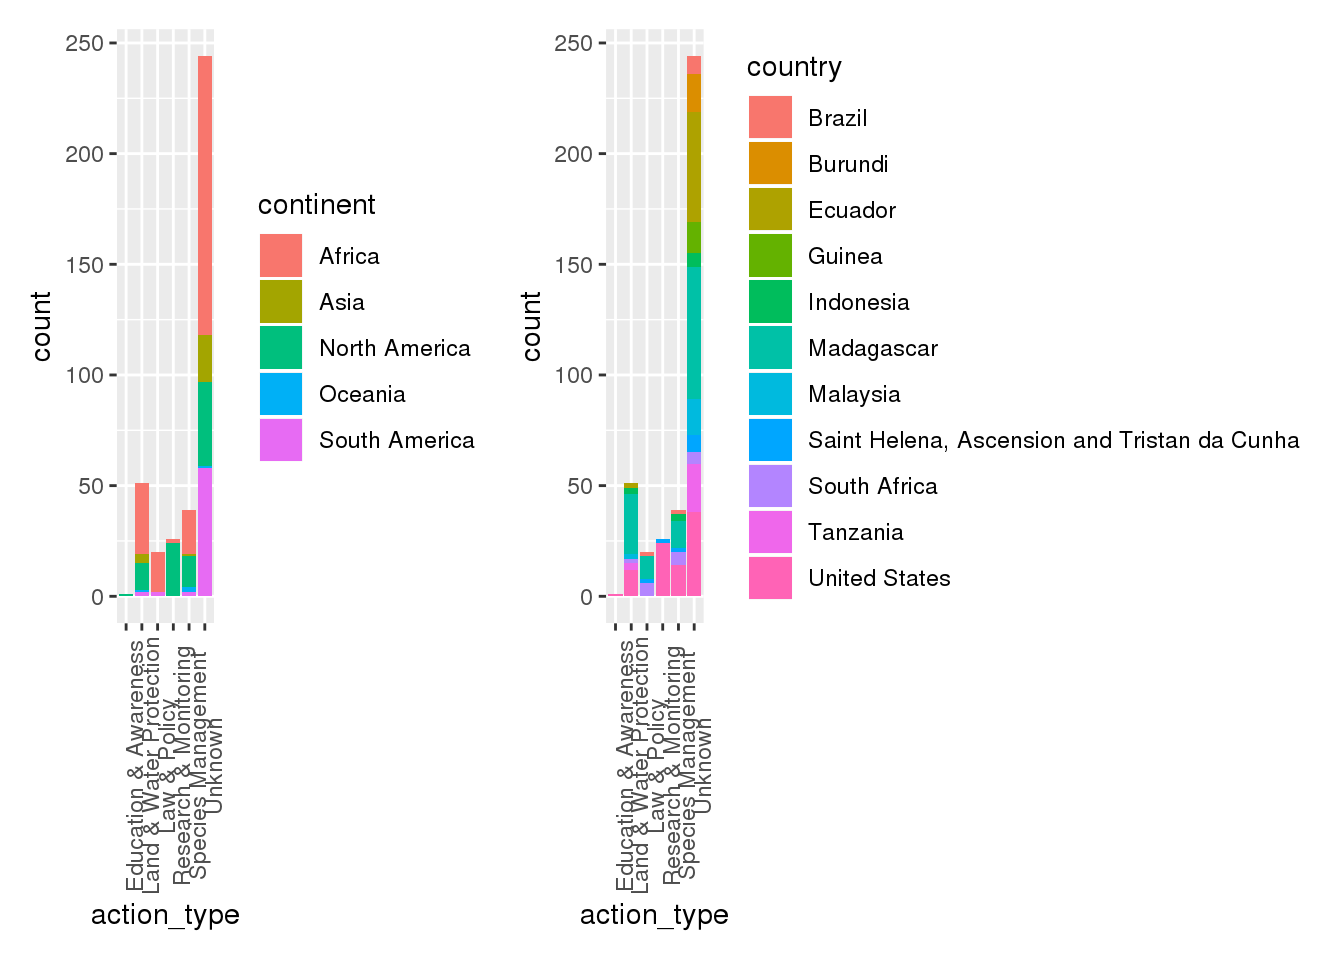
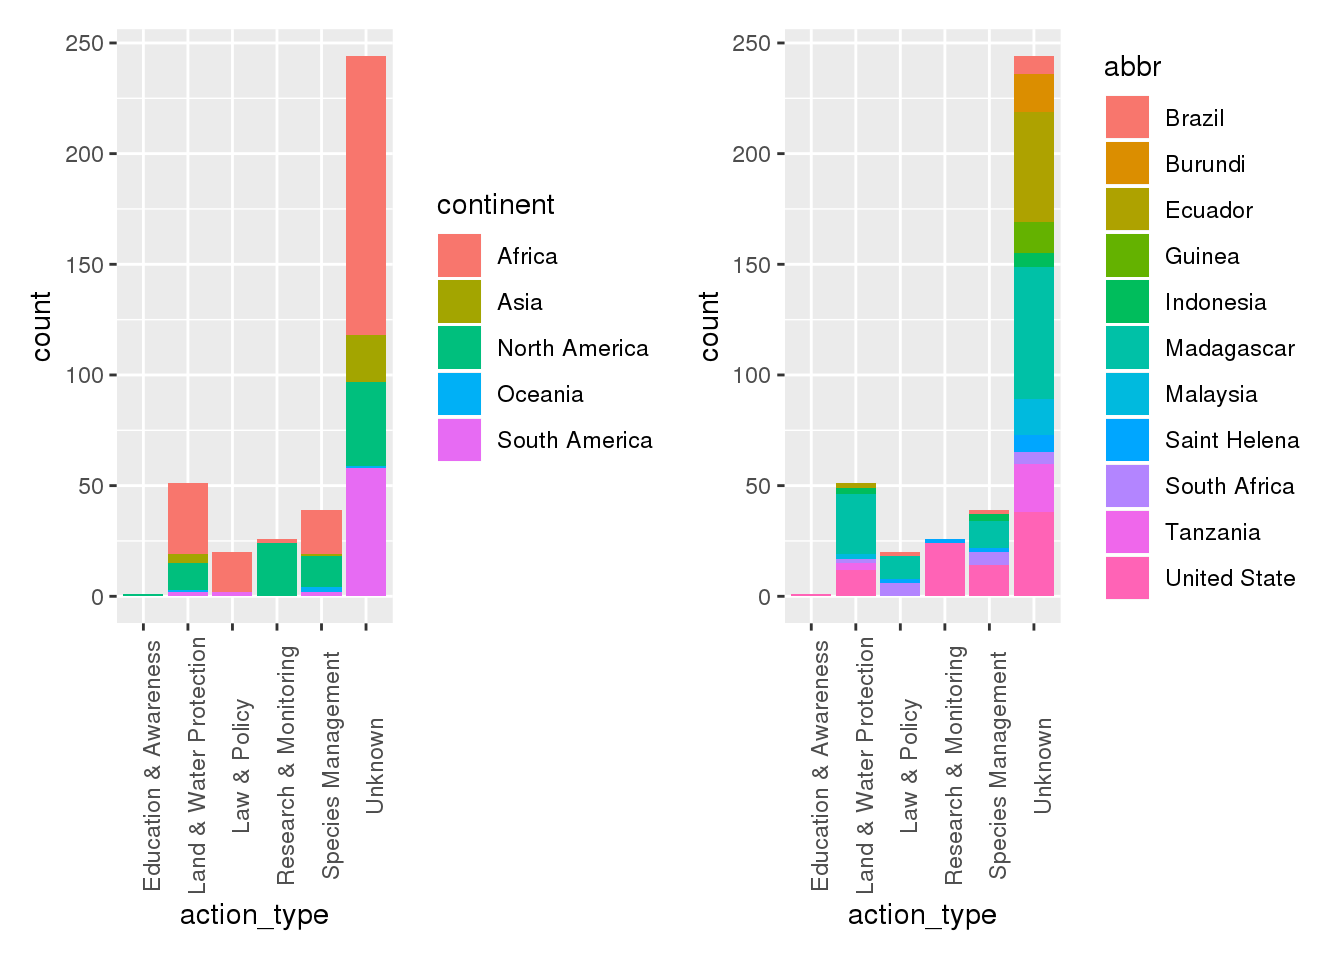
final?

diff --git a/content/post/2020-12-08-extinct-plants/index.html b/content/post/2020-12-08-extinct-plants/index.html
@@ -12,27 +12,11 @@ tags: []
 
 
 <pre class="r"><code>library(ggplot2)
-library(dplyr)</code></pre>
-<pre><code>## 
-## Attaching package: &#39;dplyr&#39;</code></pre>
-<pre><code>## The following objects are masked from &#39;package:stats&#39;:
-## 
-##     filter, lag</code></pre>
-<pre><code>## The following objects are masked from &#39;package:base&#39;:
-## 
-##     intersect, setdiff, setequal, union</code></pre>
-<pre class="r"><code>library(stringr)
-library(tidyverse)</code></pre>
-<pre><code>## ── Attaching packages ─────────────────────────────────────── tidyverse 1.3.0 ──</code></pre>
-<pre><code>## ✓ tibble  2.1.3     ✓ purrr   0.3.3
-## ✓ tidyr   1.0.0     ✓ forcats 0.4.0
-## ✓ readr   1.3.1</code></pre>
-<pre><code>## ── Conflicts ────────────────────────────────────────── tidyverse_conflicts() ──
-## x dplyr::filter() masks stats::filter()
-## x dplyr::lag()    masks stats::lag()</code></pre>
-<pre class="r"><code>library(here)</code></pre>
-<pre><code>## here() starts at /home/alcruzan/DASC-blog</code></pre>
-<pre class="r"><code>library(patchwork)</code></pre>
+library(dplyr)
+library(stringr)
+library(tidyverse)
+library(here)
+library(patchwork)</code></pre>
 <p>For this project, I would like to examine the plants that are extinct. I am using the
 dataset plants.csv from the Tidy Tuesday website. The data consists of 500 observations and 24
 variables. The binomial_name variable shows the species name for the plant. The country variable
@@ -60,6 +44,8 @@ extinction.</p>
 <pre class="r"><code>ep &lt;- read.csv(here(&quot;tidytuesday-master&quot;, &quot;data&quot;, &quot;2020&quot;, &quot;2020-08-18&quot;, &quot;plants.csv&quot;))
 
 ap &lt;- read.csv(here(&quot;tidytuesday-master&quot;, &quot;data&quot;, &quot;2020&quot;, &quot;2020-08-18&quot;, &quot;actions.csv&quot;))</code></pre>
+<div id="question-1-where-are-a-majority-of-the-plant-extinctions" class="section level1">
+<h1>Question 1: Where are a majority of the plant extinctions?</h1>
 <pre class="r"><code>country_clean &lt;- ep %&gt;%
   filter(!is.na(country)) %&gt;%
   mutate(abbr = substr(country, 1,10)) %&gt;%
@@ -76,8 +62,7 @@ c2 &lt;- ggplot(ep, aes(x=continent, fill = group)) +
   
 c2 /
   c1</code></pre>
-<p><img src="index_files/figure-html/unnamed-chunk-3-1.png" width="672" />
-# Question 1: Where are a majority of the plant extinctions?</p>
+<p><img src="index_files/figure-html/unnamed-chunk-3-1.png" width="672" /></p>
 <p>The plant extinctions are mostly in the continent of Africa. This is about half
 due to Madagascar having around 100 extinctions and also due to Tanzania having
 about 25 extinctions themselves. In general, most plant extinctions have been
@@ -87,6 +72,9 @@ extinct. The high count in the Americas is mostly due to two countries: The
 United States and the Ecuador which each account for 50 extinctions in their
 continent. Europe has very few extinctions, but a sizable percent of their
 extinctions is mosses.</p>
+</div>
+<div id="question-2-is-there-a-trend-in-the-time-period-of-extinctions" class="section level1">
+<h1>Question 2: Is there a trend in the time period of extinctions?</h1>
 <pre class="r"><code>threat &lt;- ep %&gt;%
   group_by(year_last_seen) %&gt;%
   mutate(threat_level = (threat_AA + threat_BRU + threat_RCD + threat_ISGD + threat_EPM + threat_CC + threat_HID + threat_P + threat_TS + threat_NSM + threat_GE + threat_NA)) %&gt;%
@@ -112,8 +100,6 @@ ggplot(data = threat, aes(x = year_last_seen, y = threat_level)) +
   scale_y_continuous(name = &quot;Threat Level&quot;, sec.axis = sec_axis(trans=~.*20, name = &quot;Number of Extinctions&quot;)) +
   geom_boxplot(data = line_graph, aes(x = year_last_seen, y = Count/15))</code></pre>
 <p><img src="index_files/figure-html/unnamed-chunk-4-1.png" width="672" /></p>
-<div id="question-2-is-there-a-trend-in-the-time-period-of-extinctions" class="section level1">
-<h1>Question 2: Is there a trend in the time period of extinctions?</h1>
 <p>From 1900-1959, there were around 100 extinctions every 20 years. From 1960-1979,
 there was a downward trend in extinctions that continued into 1980-1999. Even
 though no direct action was taken place to protect certain plants, plants were
@@ -123,14 +109,18 @@ was a lot more push for action to be taken to protect not only species who are
 about to go extinct, but also to save the plants that are extinct in the wild.
 The plants that are extinct in the wild are usually given more actions to protect
 them in the 2000s.</p>
+</div>
+<div id="question-3-how-much-action-is-being-taken-and-by-what-countriescontinents" class="section level1">
+<h1>Question 3: How much action is being taken and by what countries/continents?</h1>
 <pre class="r"><code>actions &lt;- ap %&gt;%
   left_join(ep) %&gt;%
   filter(action_taken == 1) %&gt;%
   group_by(country) %&gt;%
+  mutate(abbr = substr(country, 1,12)) %&gt;%
   mutate(con_count = n()) %&gt;%
   filter(con_count &gt;= 12)</code></pre>
 <pre><code>## Joining, by = c(&quot;binomial_name&quot;, &quot;country&quot;, &quot;continent&quot;, &quot;group&quot;, &quot;year_last_seen&quot;, &quot;red_list_category&quot;)</code></pre>
-<pre class="r"><code>a1 &lt;- ggplot(actions, aes(x= action_type, fill = country))+
+<pre class="r"><code>a1 &lt;- ggplot(actions, aes(x= action_type, fill = abbr))+
   geom_bar() +
   theme(axis.text.x = element_text(angle = 90))
 
@@ -140,9 +130,6 @@ a2 &lt;- ggplot(actions, aes(x= action_type, fill = continent))+
 
 a2 + a1</code></pre>
 <p><img src="index_files/figure-html/unnamed-chunk-5-1.png" width="672" /></p>
-</div>
-<div id="question-3-how-much-action-is-being-taken-and-by-what-countriescontinents" class="section level1">
-<h1>Question 3: How much action is being taken and by what countries/continents?</h1>
 <p>There is a decent amount of action taken against the extinction of plants. Africa
 is taking the most action against extinction. This action is mainly concentrated
 in Madagascar probably due to it having around 100 extinctions. The other

diff --git a/content/post/2020-12-08-san-fransciso-trees/index.html b/content/post/2020-12-08-san-fransciso-trees/index.html
@@ -77,7 +77,8 @@ to take care of the tree.</p>
   separate_rows(species, sep = &#39; &#39;) %&gt;%
   group_by(species) %&gt;%
   summarize(Count = n()) %&gt;%
-  filter(Count &gt;= 5000)
+  filter(Count &gt;= 5000) %&gt;%
+  arrange(Count)
 
 x &lt;- 0
 
@@ -107,8 +108,8 @@ tree, it would be assumed that there is a smaller tree pool to choose from for
 consumers. However, it looks like people have found that many trees can grow
 well in the San Francisco area.</p>
 </div>
-<div id="question-3-does-site-of-the-tree-affect-the-diameter-of-the-tree" class="section level1">
-<h1>Question 3: Does site of the tree affect the diameter of the tree?</h1>
+<div id="question-3-where-are-the-trees" class="section level1">
+<h1>Question 3: Where are the trees?</h1>
 <pre class="r"><code>g1 &lt;- ggplot(sf, aes(x= site_info)) +
   geom_bar() +
   theme(axis.text.x = element_text(angle = 90)) +
@@ -124,19 +125,24 @@ g2 &lt;- ggplot(sf, aes(x= site_info)) +
   ylab(&quot;Number of Trees&quot;) +
   ggtitle(&quot;Locations Excluding Curbside Cutouts&quot;)
 
-g1 + g2</code></pre>
-<pre><code>## Warning: Removed 1 rows containing missing values (geom_bar).</code></pre>
+g1</code></pre>
 <p><img src="index_files/figure-html/unnamed-chunk-5-1.png" width="672" /></p>
 <p>As seen in the graph, a majority of the trees are on sidewalk curbs. This is
 most likely why we see such a distinct street layout in the spatial map. These
 trees most likely consists of the more common tree types because they are on
 streets. Since they are on streets, it suggests that there is some degree of
-uniformity set in place by some form of city official or home owners association.
-Of the relatively smaller tree locations, they are mostly in yards. This I believe
+uniformity set in place by some form of city official or home owners association.</p>
+<pre class="r"><code>g2</code></pre>
+<pre><code>## Warning: Removed 1 rows containing missing values (geom_bar).</code></pre>
+<p><img src="index_files/figure-html/unnamed-chunk-6-1.png" width="672" /></p>
+<p>Of the relatively smaller tree locations, they are mostly in yards. This I believe
 is where the variation in tree types comes from. In yards, it is more likely that
 people can take more creative freedom on what kind of tree they want. While some
 trees look nice on a curb, other more exciting and unique trees are in private
 yards to add more character to one’s home.</p>
+</div>
+<div id="question-4-where-do-trees-grow-best" class="section level1">
+<h1>Question 4: Where do trees grow best?</h1>
 <pre class="r"><code>today &lt;- 2020
 
 tree_age &lt;- sf %&gt;%
@@ -165,10 +171,12 @@ b2 &lt;- ggplot(tree_age, aes(x= site_info, y = age)) +
 b1 + b2</code></pre>
 <pre><code>## Warning: Removed 13 rows containing non-finite values (stat_boxplot).</code></pre>
 <pre><code>## Warning: Removed 113239 rows containing non-finite values (stat_boxplot).</code></pre>
-<p><img src="index_files/figure-html/unnamed-chunk-6-1.png" width="672" /></p>
+<p><img src="index_files/figure-html/unnamed-chunk-7-1.png" width="672" /></p>
 <p>These graphs shows that trees that grow in yards grow bigger for their age then
 other trees. While other spots may use trees as decoration, trees should be in
-the place where they grow the best.</p>
+the place where they grow the best. This also shows that trees who grow on
+sidewalks are probably intentionally smaller, thinner trees to avoid any road
+and sidewalk damage.</p>
 </div>
 <div id="conclusion" class="section level1">
 <h1>Conclusion</h1>
@@ -176,5 +184,7 @@ the place where they grow the best.</p>
 and street layout. It also has many trees that are in large parks as well as in
 people’s personal yards. There is a lot of variation in the tree types, and no
 one tree has near a large portion at all. This adds to the diversity of the city
-However, if trees grew in yards, the trees would grow bigger and better.</p>
+However, if trees grew in yards, the trees would grow bigger and better. However,
+some trees are intentionally smaler to prevent road damage big branches falling
+on the roads or sidewalks.</p>
 </div>

diff --git a/content/about.md b/content/about.md
@@ -3,7 +3,11 @@ title: "About"
 date: "2020-12-06T21:48:51-07:00"
 ---
 
-Here is the link to [My website](https://dasc-1104-alc.netlify.app/)
+I am a Data Science student at the University of Arkansas. My ideal concentration
+accoutning analytics becuase my goal is to be a forensic accountant for the CIA.
+I am also majoring in Acounting at the Walton School of business.
 
-I am a programming student and business major, and here is where I post about what
-I learn.
+The purpose of this blog is to demonstrate my skills in R programming. Over the 
+semester I have learned many new programming skills. This blog demonstrates my 
+skills in data reading, manipulation, cleaning, and visualization. While this 
+blog utilizes R, I also know Java and python. This project also utilizes github.
